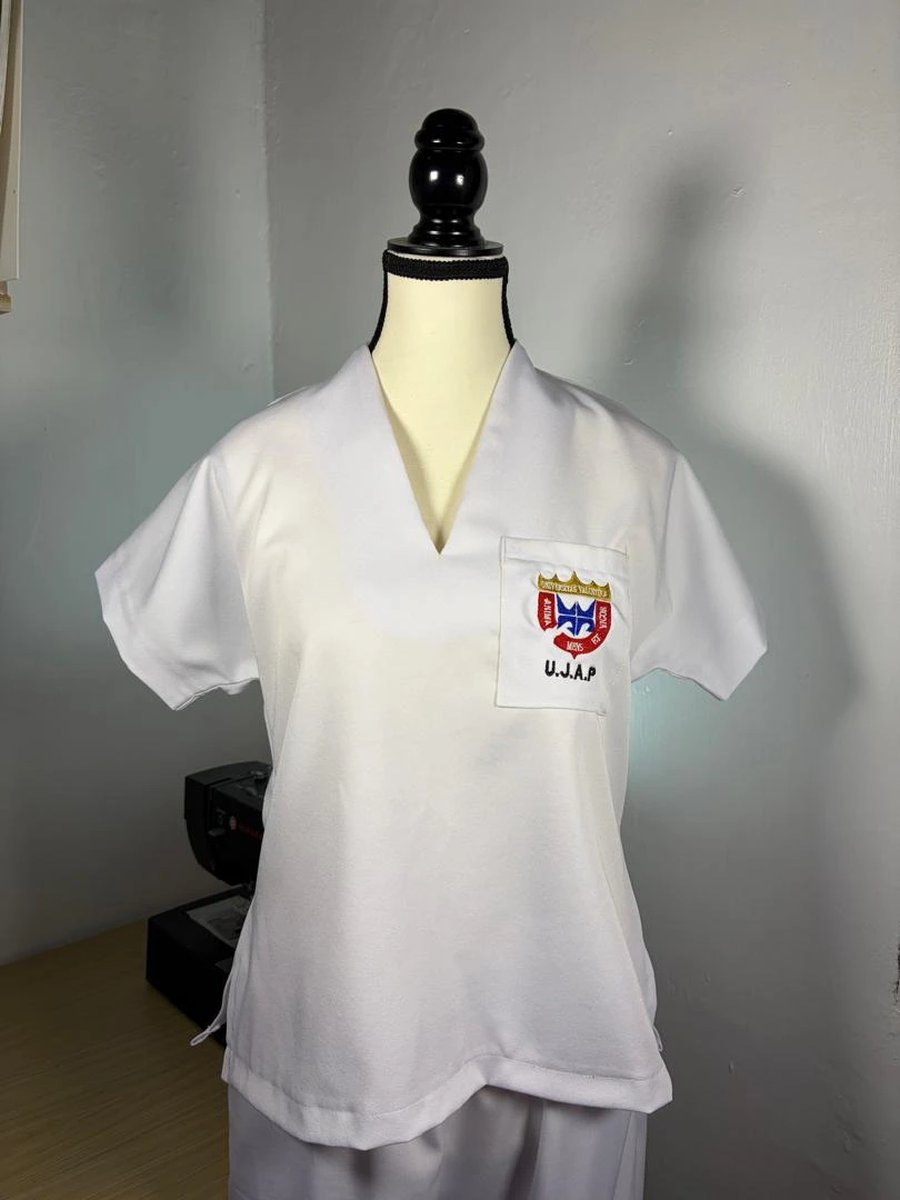
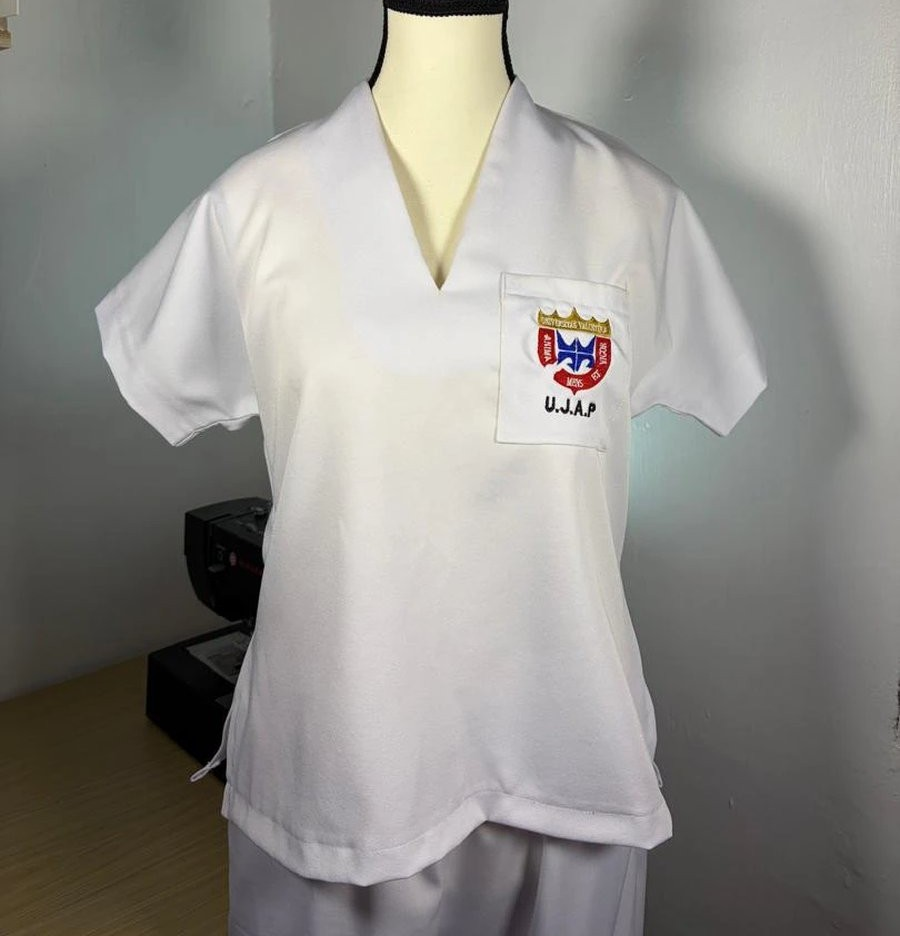
Recorta la foto y renombra a Cuello en V Moderno
Claude-Session: https://claude.ai/code/session_01VQ3Gui7LvZGFhQT4VH7VqY

diff --git a/js/data.js b/js/data.js
@@ -16,7 +16,7 @@ const CATALOG = {
     },
     {
       id: "shirt-v-bolsillo",
-      name: "Cuello V con Bolsillo",
+      name: "Cuello en V Moderno",
       description: "Escote en V, bolsillo frontal para bordado o logo.",
       price: 19,
       image: "img/productos/camisa-cuello-v-bolsillo.jpg",
